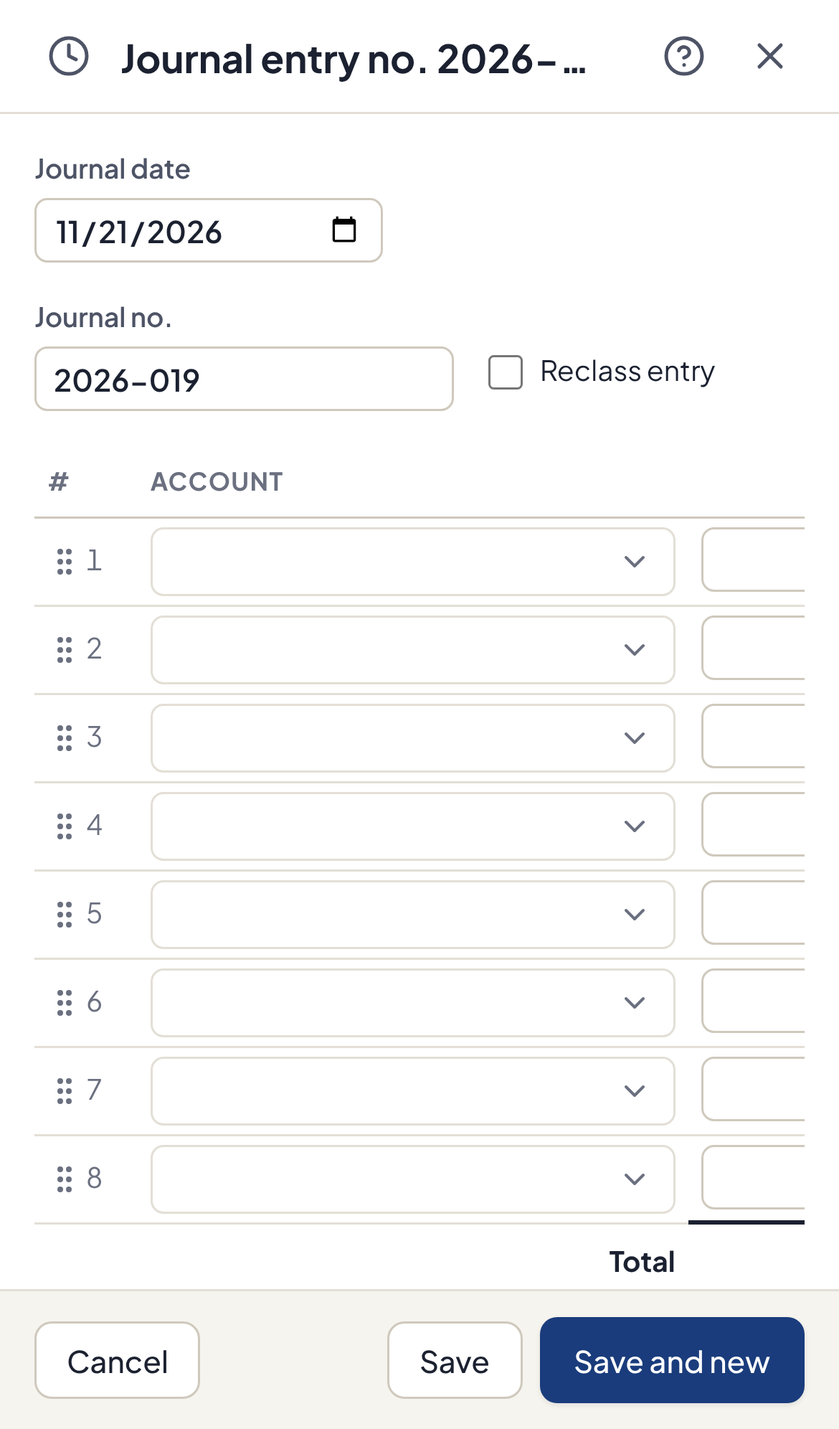
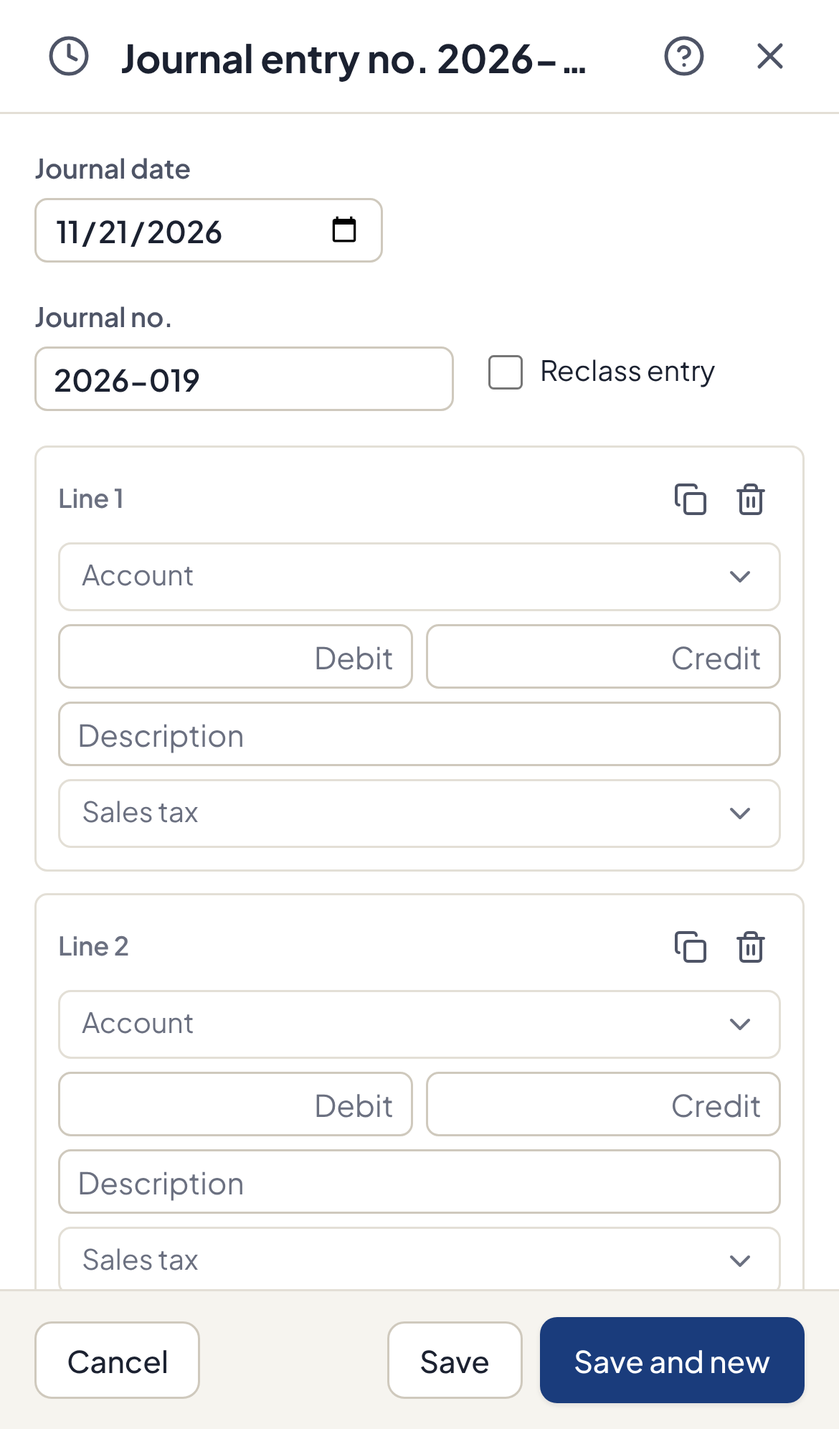
CB2-1 PR A: spec-checker fixes (phone width, chart from the firm template, default tax codes)
- Phone width: journal lines as cards; tables keep their key columns; nothing scrolls sideways.
- A client's chart starts from the firm's template (added by hand: the whole template; every client kept in step),
  each account with its default sales tax code for the client's province; the Chart column shows it.
- Retained earnings: the client's own account before the template's.

Claude-Session: https://claude.ai/code/session_016SXATpLEpnPH42ZvaMcLCJ

Changed region(s): [[0.0308, 0.3112, 0.9538, 0.9026], [0.1538, 0.6225, 0.1846, 0.6536]]

diff --git a/src/app/cb/[client]/reports/[report]/page.tsx b/src/app/cb/[client]/reports/[report]/page.tsx
@@ -36,11 +36,11 @@ export default async function ReportPage({ params, searchParams }: { params: Pro
 
   const tbRow = (t: TbLine, indent = false, bold = false) => (
     <tr key={t.key} className={bold ? "font-semibold" : ""} data-tb-row={t.key}>
-      <td className={indent ? "pl-6" : ""}>{t.number}</td><td>{t.name}</td><td>{(t.line_no ?? "").replace(/\.00$/, "")}</td>
-      <td className="text-right tabular-nums">{link(t.key, t.prelim)}</td><td className="text-right tabular-nums">{link(t.key, t.adjust)}</td>
-      <td className="text-right tabular-nums">{link(t.key, t.reclass)}</td><td className="text-right tabular-nums">{link(t.key, t.final)}</td>
-      <td className="text-right tabular-nums">{link(t.key, t.last, yearBefore(from), yearBefore(to))}</td><td className="text-right tabular-nums">{amt(t.diff)}</td>
-      <td className="text-right tabular-nums">{bold && !t.number && t.key === "total" ? "" : pctChange(t.final, t.last)}</td>
+      <td className={`${indent ? "pl-6" : ""} max-md:hidden`}>{t.number}</td><td>{t.name}</td><td className="max-md:hidden">{(t.line_no ?? "").replace(/\.00$/, "")}</td>
+      <td className="text-right tabular-nums max-md:hidden">{link(t.key, t.prelim)}</td><td className="text-right tabular-nums max-md:hidden">{link(t.key, t.adjust)}</td>
+      <td className="text-right tabular-nums max-md:hidden">{link(t.key, t.reclass)}</td><td className="text-right tabular-nums">{link(t.key, t.final)}</td>
+      <td className="text-right tabular-nums max-md:hidden">{link(t.key, t.last, yearBefore(from), yearBefore(to))}</td><td className="text-right tabular-nums max-md:hidden">{amt(t.diff)}</td>
+      <td className="text-right tabular-nums max-md:hidden">{bold && !t.number && t.key === "total" ? "" : pctChange(t.final, t.last)}</td>
     </tr>
   );
   const sec = (s: StmtSection, total: string, f: string, t: string, pf: string, pt: string) => (
@@ -68,18 +68,18 @@ export default async function ReportPage({ params, searchParams }: { params: Pro
     for (const t of r.tb) { if (t.final > 0) dr += t.final; else cr -= t.final; }
     body = (
       <table className="table" data-report="tb">
-        <thead><tr><th>Number</th><th>Account</th><th className="text-right">Debit</th><th className="text-right">Credit</th></tr></thead>
+        <thead><tr><th className="max-md:hidden">Number</th><th>Account</th><th className="text-right">Debit</th><th className="text-right">Credit</th></tr></thead>
         <tbody>{r.tb.filter((t) => t.final).map((t) => (
-          <tr key={t.key} data-tb-row={t.key}><td>{t.number}</td><td>{t.name}</td>
+          <tr key={t.key} data-tb-row={t.key}><td className="max-md:hidden">{t.number}</td><td>{t.name}</td>
             <td className="text-right tabular-nums">{t.final > 0 ? link(t.key, t.final) : ""}</td><td className="text-right tabular-nums">{t.final < 0 ? link(t.key, -t.final) : ""}</td></tr>))}
-          <tr className="font-bold"><td /><td>Total</td><td className="border-t border-ink text-right tabular-nums">{amt(dr)}</td><td className="border-t border-ink text-right tabular-nums">{amt(cr)}</td></tr></tbody>
+          <tr className="font-bold"><td className="max-md:hidden" /><td>Total</td><td className="border-t border-ink text-right tabular-nums">{amt(dr)}</td><td className="border-t border-ink text-right tabular-nums">{amt(cr)}</td></tr></tbody>
       </table>
     );
   } else if (report === "tbg" && r.groups) {
     body = (
       <table className="table table-compact" data-report="tbg">
-        <thead><tr><th>Number</th><th>Account</th><th>GIFI</th><th className="text-right">Prelim</th><th className="text-right">Adj&apos;s</th><th className="text-right">Reclass</th>
-          <th className="text-right">Final</th><th className="text-right">Prior</th><th className="text-right">$ change</th><th className="text-right">% change</th></tr></thead>
+        <thead><tr><th className="max-md:hidden">Number</th><th>Account</th><th className="max-md:hidden">GIFI</th><th className="text-right max-md:hidden">Prelim</th><th className="text-right max-md:hidden">Adj&apos;s</th><th className="text-right max-md:hidden">Reclass</th>
+          <th className="text-right">Final</th><th className="text-right max-md:hidden">Prior</th><th className="text-right max-md:hidden">$ change</th><th className="text-right max-md:hidden">% change</th></tr></thead>
         <tbody>{r.groups.groups.map((g) => (
           <Fragment key={g.code}>
             <tr key={`h${g.code}`} className="font-bold"><td colSpan={10} className="pt-3">{g.name}</td></tr>
@@ -109,19 +109,19 @@ export default async function ReportPage({ params, searchParams }: { params: Pro
   } else if (report === "gl" && r.ledger) {
     body = (
       <table className="table table-compact" data-report="gl">
-        <thead><tr><th>Date</th><th>Transaction type</th><th>No.</th><th>Description</th><th className="text-right">Amount</th><th className="text-right">Balance</th></tr></thead>
+        <thead><tr><th>Date</th><th className="max-md:hidden">Transaction type</th><th className="max-md:hidden">No.</th><th>Description</th><th className="text-right">Amount</th><th className="text-right max-md:hidden">Balance</th></tr></thead>
         <tbody>{r.ledger.map((a) => (
           <Fragment key={a.key}>
             <tr key={`h${a.key}`} className="font-bold"><td colSpan={6} className="pt-3">{acctLabel(a)}</td></tr>
-            <tr key={`b${a.key}`} className="text-ink-2"><td>{formatDate(from)}</td><td colSpan={3}>Balance at start</td><td /><td className="text-right tabular-nums">{amt(a.before)}</td></tr>
+            <tr key={`b${a.key}`} className="text-ink-2"><td>{formatDate(from)}</td><td colSpan={3}>Balance at start</td><td /><td className="text-right tabular-nums max-md:hidden">{amt(a.before)}</td></tr>
             {a.lines.map((l, i) => {
               const tx = txnOf(b, l);
               const href = tx ? `${tx.href}${tx.href.includes("?") ? "&" : "?"}back=${encodeURIComponent(here)}` : null;
               return (
                 <tr key={`${a.key}${i}`} data-gl-line>
-                  <td className="whitespace-nowrap">{formatDate(l.date)}</td><td>{tx ? <Link href={href!} className="text-navy-700 hover:underline">{tx.type}</Link> : ""}</td>
-                  <td>{tx?.no ?? ""}</td><td className="min-w-[14rem]">{href ? <Link href={href} className="hover:underline">{tx?.text || l.label}</Link> : l.label}</td>
-                  <td className="text-right tabular-nums">{amt(l.cents)}</td><td className="text-right tabular-nums">{amt(l.running)}</td>
+                  <td className="whitespace-nowrap">{formatDate(l.date)}</td><td className="max-md:hidden">{tx ? <Link href={href!} className="text-navy-700 hover:underline">{tx.type}</Link> : ""}</td>
+                  <td className="max-md:hidden">{tx?.no ?? ""}</td><td className="md:min-w-[14rem]">{href ? <Link href={href} className="hover:underline">{tx?.text || l.label}</Link> : l.label}</td>
+                  <td className="text-right tabular-nums">{amt(l.cents)}</td><td className="text-right tabular-nums max-md:hidden">{amt(l.running)}</td>
                 </tr>
               );
             })}
@@ -134,15 +134,15 @@ export default async function ReportPage({ params, searchParams }: { params: Pro
   } else if (report === "journal" && r.journal && r.box) {
     body = (
       <table className="table table-compact" data-report="journal">
-        <thead><tr><th>Date</th><th>Transaction type</th><th>No.</th><th>Account</th><th className="text-right">Debit</th><th className="text-right">Credit</th></tr></thead>
+        <thead><tr><th>Date</th><th className="max-md:hidden">Transaction type</th><th className="max-md:hidden">No.</th><th>Account</th><th className="text-right">Debit</th><th className="text-right">Credit</th></tr></thead>
         <tbody>{r.journal.map((t, i) => {
           const tx = txnOf(b, { kind: t.kind, ref: t.ref, label: t.label });
           const href = tx ? `${tx.href}${tx.href.includes("?") ? "&" : "?"}back=${encodeURIComponent(here)}` : null;
           return (
             <Fragment key={i}>
               <tr key={`h${i}`} className="border-t border-sand-300 font-semibold"><td className="whitespace-nowrap">{formatDate(t.date)}</td>
-                <td>{href ? <Link href={href} className="text-navy-700 hover:underline">{tx!.type}</Link> : ""}</td><td>{tx?.no}</td><td colSpan={3}>{tx?.text || t.label}</td></tr>
-              {t.lines.map((l, k) => <tr key={`${i}-${k}`}><td colSpan={3} /><td>{name(l.key)}</td><td className="text-right tabular-nums">{l.cents > 0 ? amt(l.cents) : ""}</td><td className="text-right tabular-nums">{l.cents < 0 ? amt(-l.cents) : ""}</td></tr>)}
+                <td className="max-md:hidden">{href ? <Link href={href} className="text-navy-700 hover:underline">{tx!.type}</Link> : ""}</td><td className="max-md:hidden">{tx?.no}</td><td colSpan={3}>{tx?.text || t.label}</td></tr>
+              {t.lines.map((l, k) => <tr key={`${i}-${k}`}><td /><td colSpan={2} className="max-md:hidden" /><td>{name(l.key)}</td><td className="text-right tabular-nums">{l.cents > 0 ? amt(l.cents) : ""}</td><td className="text-right tabular-nums">{l.cents < 0 ? amt(-l.cents) : ""}</td></tr>)}
             </Fragment>
           );
         })}
@@ -169,7 +169,7 @@ export default async function ReportPage({ params, searchParams }: { params: Pro
         <a href={exp("xlsx")} className="btn-secondary btn-compact" data-export="xlsx"><FileSpreadsheet className="h-4 w-4" />Excel</a>
         <a href={exp("pdf")} target="_blank" rel="noreferrer" className="btn-secondary btn-compact" data-export="pdf"><FileText className="h-4 w-4" />PDF</a>
       </form>
-      <div className="card overflow-x-auto p-4">
+      <div className="card overflow-x-auto p-4 max-md:px-2">
         <div className="mb-3 text-center"><p className="text-[13px] text-ink-3">{b.client.name}</p><h1 className="text-[18px] font-bold">{REPORTS[report]}{account ? `: ${account.split(",").map(name).join(", ")}` : ""}</h1><p className="text-[13px] text-ink-3">{period}</p></div>
         {body}
       </div>

diff --git a/src/lib/books/server.ts b/src/lib/books/server.ts
@@ -5,6 +5,7 @@ import { loadFile, loadReference, type CbEntry } from "@/lib/closebook/server";
 import { loadReportData } from "@/lib/closebook/report-data";
 import type { LineInfo, RepAccount } from "@/lib/closebook/reports";
 import { buildBooks, identOf, type AcctType, type Books, type YearIn } from "./ledger";
+import { defaultTaxCode } from "@/lib/closebook/sales-tax";
 
 export type BooksClient = { id: string; name: string; province: string; studio_client_id: string | null };
 export type ChartAccount = { id: string; ident: string; number: string; name: string; account_type: AcctType; line_no: string | null; tax_code: string | null; active: boolean;
@@ -54,7 +55,11 @@ export async function loadBooks(supabase: SupabaseClient, clientId: string): Pro
   };
   const years: YearIn[] = [];
   const entries: BooksEntry[] = [];
-  const syncRows: { number: string; name: string; type: AcctType; line_no: string | null }[] = [];
+  // CB2-1 Part 1.6: the chart starts from the firm's template, then the year files (the latest year's name wins).
+  const { data: tpl } = await supabase.from("cb_chart_accounts").select("number, name, account_type, line_no, tax_default").order("sort_order");
+  const tplTax = new Map(((tpl ?? []) as { number: string; tax_default: string | null }[]).map((t) => [t.number, defaultTaxCode(t.tax_default ?? "None", (client as BooksClient).province, t.number)]));
+  const syncRows: { number: string; name: string; type: AcctType; line_no: string | null; tax?: string | null }[] =
+    ((tpl ?? []) as { number: string; name: string; account_type: AcctType; line_no: string | null }[]).map((t) => ({ number: t.number, name: t.name, type: t.account_type, line_no: t.line_no, tax: tplTax.get(t.number) ?? null }));
   for (const f of files) {
     const full = await loadFile(supabase, f.id, { books: true });
     if (!full) continue;
@@ -65,7 +70,7 @@ export async function loadBooks(supabase: SupabaseClient, clientId: string): Pro
     for (const a of rd.accounts as RepAccount[]) {
       if (!used.has(a.key) && !a.lastCents) continue;
       const t = (lineType.get(a.line_no ?? "") as AcctType | undefined) ?? typeByNumber(a.number, a.key);
-      syncRows.push({ number: a.number, name: a.name, type: TYPES.includes(t) ? t : "Asset", line_no: a.line_no });
+      syncRows.push({ number: a.number, name: a.name, type: TYPES.includes(t) ? t : "Asset", line_no: a.line_no, tax: tplTax.get(a.number) ?? null });
     }
     for (const e of full.entries) {
       entries.push({ ...e, fileId: f.id, yearEnd: f.year_end, yearStart: f.year_start, locked: f.phase === "locked",
@@ -76,10 +81,11 @@ export async function loadBooks(supabase: SupabaseClient, clientId: string): Pro
   let chart = await loadChart(supabase, clientId);
   const have = new Map(chart.map((a) => [a.ident, a]));
   const latest = new Map<string, (typeof syncRows)[number]>();
-  for (const r of syncRows) latest.set(identOf(r), r);
+  for (const r of syncRows) latest.set(identOf(r), { ...r, tax: r.tax ?? latest.get(identOf(r))?.tax ?? null });
   const needed = [...latest.values()].filter((r) => {
     const a = have.get(identOf(r));
-    return !a ? !chart.some((x) => x.merged_into && x.ident === identOf(r)) : a.source === "books" && (a.name !== r.name || a.account_type !== r.type || (a.line_no ?? null) !== (r.line_no ?? null));
+    return !a ? !chart.some((x) => x.merged_into && x.ident === identOf(r))
+      : (a.source === "books" && (a.name !== r.name || a.account_type !== r.type || (a.line_no ?? null) !== (r.line_no ?? null))) || (!a.tax_code && !!r.tax);
   });
   if (needed.length) {
     await supabase.rpc("cb_books_sync_accounts", { p_client: clientId, p_rows: needed });
@@ -97,7 +103,10 @@ export async function loadBooks(supabase: SupabaseClient, clientId: string): Pro
   }
   const typeOf = (ident: string): AcctType | undefined => byIdent.get(ident)?.account_type ?? (ident.startsWith("name:") ? undefined : typeByNumber(ident));
   // Retained earnings: the account on GIFI line 3600 (31000 first).
-  const reAcct = live.filter((a) => (a.line_no ?? "").startsWith("3600")).sort((a, b) => Number(b.number === "31000") - Number(a.number === "31000") || a.number.localeCompare(b.number))[0];
+  // The client's own (an account its year files use) before the template's.
+  const used = new Set(years.flatMap((y) => y.accounts.map((a) => identOf(a))));
+  const reAcct = live.filter((a) => (a.line_no ?? "").startsWith("3600"))
+    .sort((a, b) => Number(used.has(b.ident)) - Number(used.has(a.ident)) || Number(b.number === "31000") - Number(a.number === "31000") || a.number.localeCompare(b.number))[0];
   const re = reAcct?.ident ?? "31000";
   const remap = (y: YearIn): YearIn => mergedTo.size ? {
     ...y, accounts: y.accounts.map((a) => { const t = mergedTo.get(identOf(a)); const c = t ? byIdent.get(t) : undefined; return c ? { ...a, number: c.number, name: c.name } : a; }),

diff --git a/src/app/cb/[client]/journal/window.tsx b/src/app/cb/[client]/journal/window.tsx
@@ -125,7 +125,7 @@ export function JournalWindow({ clientId, entry, nextNo, accounts, codes, years,
           {warnings.length > 0 && <ul className="mt-3 grid gap-1 rounded-md bg-warning-soft px-3 py-2 text-[12.5px] text-warning" data-je-warnings>{warnings.map((w) => <li key={w}>{w}</li>)}</ul>}
           {entry.schedule && <p className="mt-3 text-[12.5px] text-ink-3">Made by a schedule. It edits here as an ordinary entry.</p>}
           {/* Lines: #, Account, Debits, Credits, Description, Sales tax. */}
-          <div className="mt-4 overflow-x-auto">
+          <div className="mt-4 hidden overflow-x-auto md:block">
             <table className="w-full min-w-[56rem] border-collapse text-[13px]" data-je-lines>
               <thead><tr className="border-b border-sand-300 text-left text-[11.5px] font-semibold uppercase tracking-[.04em] text-ink-3">
                 <th className="w-12 px-1.5 py-2">#</th><th className="px-1.5 py-2">Account</th><th className="w-32 px-1.5 py-2 text-right">Debits</th><th className="w-32 px-1.5 py-2 text-right">Credits</th>
@@ -153,6 +153,26 @@ export function JournalWindow({ clientId, entry, nextNo, accounts, codes, years,
                   <td className="border-t-2 border-ink px-1.5 py-2 text-right tabular-nums">{bracketAmount(plan.cr)}</td><td colSpan={3} /></tr></tbody>
             </table>
           </div>
+          {/* Phone width: each line as a card (same fields), so nothing scrolls sideways. */}
+          <ol className="mt-4 grid gap-2.5 md:hidden" data-je-cards>{rows.map((r, i) => (
+            <li key={r.key} className="rounded-md border border-sand-200 p-2.5">
+              <div className="mb-1.5 flex items-center justify-between text-[12px] font-semibold text-ink-3"><span>Line {i + 1}</span>{!ro && <span>
+                <button type="button" aria-label={`Copy line ${i + 1}`} onClick={() => setRows((rs) => [...rs.slice(0, i + 1), { ...rs[i], key: ++seq }, ...rs.slice(i + 1)])} className={iconBtn}><Copy className="h-4 w-4" /></button>
+                <button type="button" aria-label={`Delete line ${i + 1}`} onClick={() => setRows((rs) => pad(rs.filter((_, k) => k !== i), 2))} className={iconBtn}><Trash2 className="h-4 w-4" /></button></span>}</div>
+              <div className="grid gap-1.5">
+                {ro ? <span>{acct.get(r.account)?.label}</span> : <Picker compact ariaLabel={`Line ${i + 1} account (phone)`} value={r.account} onChange={(v) => pickAccount(i, v)} options={accounts} placeholder="Account" />}
+                <div className="grid grid-cols-2 gap-1.5">
+                  <input value={r.dr} onChange={(e) => set(i, { dr: e.target.value, ...(e.target.value ? { cr: "" } : {}) })} onBlur={(e) => set(i, { dr: tidyAmount(e.target.value) })} disabled={ro} inputMode="decimal" placeholder="Debit" aria-label={`Line ${i + 1} debit (phone)`} className="input input-compact w-full text-right tabular-nums" />
+                  <input value={r.cr} onChange={(e) => set(i, { cr: e.target.value, ...(e.target.value ? { dr: "" } : {}) })} onBlur={(e) => set(i, { cr: tidyAmount(e.target.value) })} disabled={ro} inputMode="decimal" placeholder="Credit" aria-label={`Line ${i + 1} credit (phone)`} className="input input-compact w-full text-right tabular-nums" />
+                </div>
+                <input value={r.memo} onChange={(e) => set(i, { memo: e.target.value })} disabled={ro} maxLength={200} placeholder="Description" aria-label={`Line ${i + 1} description (phone)`} className="input input-compact w-full" />
+                {ro ? <span className="text-ink-2">{code.get(r.tax)?.name}</span> : <Picker compact ariaLabel={`Line ${i + 1} sales tax (phone)`} value={r.tax} onChange={(v) => set(i, { tax: v })} options={taxOpts} allowEmpty emptyLabel="No sales tax" placeholder="Sales tax" />}
+              </div>
+            </li>))}
+            {plan.gst !== 0 && <li className="flex justify-between px-1 text-[13px] text-ink-2"><span>21500 GST/HST payable (sales tax)</span><span className="tabular-nums">{bracketAmount(plan.gst)}</span></li>}
+            {plan.pst !== 0 && <li className="flex justify-between px-1 text-[13px] text-ink-2"><span>21550 PST payable (sales tax)</span><span className="tabular-nums">{bracketAmount(plan.pst)}</span></li>}
+            <li className="flex justify-between border-t-2 border-ink px-1 pt-1.5 text-[13px] font-bold"><span>Total</span><span className="tabular-nums">Debits {bracketAmount(plan.dr)} · Credits {bracketAmount(plan.cr)}</span></li>
+          </ol>
           {!ro && <div className="mt-2 flex gap-2">
             <button type="button" className="btn-secondary btn-compact" onClick={() => setRows((rs) => [...rs, ...Array.from({ length: 8 }, blank)])} data-je-add-lines>Add lines</button>
             <button type="button" className="btn-secondary btn-compact" onClick={() => setRows(pad([]))} data-je-clear-lines>Clear all lines</button></div>}

diff --git a/src/app/cb/[client]/chart/view.tsx b/src/app/cb/[client]/chart/view.tsx
@@ -108,8 +108,8 @@ export function ChartView({ clientId, rows, lines, taxes, canEdit, asOf, from, p
     return rows.filter((r) => (inactive || r.active) && (!t || `${r.number} ${r.name} ${r.type} ${r.line_no ?? ""} ${r.lineName}`.toLowerCase().includes(t)))
       .sort((a, b) => { const x = key(a), y = key(b); return (typeof x === "number" && typeof y === "number" ? x - y : String(x).localeCompare(String(y), "en", { numeric: true })) * sort.dir; });
   }, [rows, q, sort, inactive, taxName]);
-  const head = (col: Col, label: string, right = false) => (
-    <th className={right ? "text-right" : ""} aria-sort={sort.col === col ? (sort.dir === 1 ? "ascending" : "descending") : "none"}>
+  const head = (col: Col, label: string, right = false, wide = false) => (
+    <th className={`${right ? "text-right" : ""} ${wide ? "max-md:hidden" : ""}`} aria-sort={sort.col === col ? (sort.dir === 1 ? "ascending" : "descending") : "none"}>
       <button type="button" onClick={() => setSort({ col, dir: sort.col === col ? (sort.dir === 1 ? -1 : 1) : 1 })} className="inline-flex items-center gap-1 font-semibold">
         {label}{sort.col === col && (sort.dir === 1 ? <ArrowUp className="h-3 w-3" /> : <ArrowDown className="h-3 w-3" />)}</button></th>
   );
@@ -129,14 +129,14 @@ export function ChartView({ clientId, rows, lines, taxes, canEdit, asOf, from, p
       </div>
       <div className="card overflow-x-auto p-0">
         <table className="table" data-chart-table>
-          <thead><tr>{head("number", "Number")}{head("name", "Name")}{head("type", "Type")}{head("gifi", "GIFI line")}{head("tax", "Default tax code")}{head("balance", "Balance", true)}<th className="w-10"><span className="sr-only">Actions</span></th></tr></thead>
+          <thead><tr>{head("number", "Number")}{head("name", "Name")}{head("type", "Type", false, true)}{head("gifi", "GIFI line", false, true)}{head("tax", "Default tax code", false, true)}{head("balance", "Balance", true)}<th className="w-10"><span className="sr-only">Actions</span></th></tr></thead>
           <tbody>{shown.map((r) => (
             <tr key={r.id} className={r.active ? "" : "text-ink-3"} data-chart-row={r.ident}>
               <td className="tabular-nums">{r.number}</td>
-              <td className="min-w-[12rem]"><Link href={run(r)} className="hover:underline">{r.name}</Link>{!r.active && <span className="ml-1.5 text-[11.5px]">(inactive)</span>}</td>
-              <td>{r.type}</td>
-              <td className="min-w-[10rem]">{r.line_no ? <span title={r.lineName}>{r.line_no.replace(/\.00$/, "")} {r.lineName}</span> : <span className="text-warning">Unmatched</span>}</td>
-              <td>{r.tax ? taxName.get(r.tax) ?? r.tax : ""}</td>
+              <td className="md:min-w-[12rem]"><Link href={run(r)} className="hover:underline">{r.name}</Link>{!r.active && <span className="ml-1.5 text-[11.5px]">(inactive)</span>}</td>
+              <td className="max-md:hidden">{r.type}</td>
+              <td className="min-w-[10rem] max-md:hidden">{r.line_no ? <span title={r.lineName}>{r.line_no.replace(/\.00$/, "")} {r.lineName}</span> : <span className="text-warning">Unmatched</span>}</td>
+              <td className="max-md:hidden">{r.tax ? taxName.get(r.tax) ?? r.tax : ""}</td>
               <td className="text-right tabular-nums"><Link href={run(r)} className="hover:underline">{bracketAmount(r.balance)}</Link></td>
               <td className="text-right"><RowMenu clientId={clientId} row={r} runHref={run(r)} canEdit={canEdit} onEdit={() => setEdit(r)} onHistory={() => router.push(`${base}?history=${r.id}`)} /></td>
             </tr>

diff --git a/src/app/cb/[client]/settings/page.tsx b/src/app/cb/[client]/settings/page.tsx
@@ -22,9 +22,9 @@ export default async function SettingsPage({ params, searchParams }: { params: P
     body = <>
       <form method="get" className="flex gap-2"><input type="hidden" name="tab" value="chart" /><input name="q" defaultValue={sp.q ?? ""} placeholder="Filter by number or name" className="input input-compact w-full max-w-xs" /></form>
       <div className="card overflow-x-auto p-0"><table className="table table-compact" data-settings-chart>
-        <thead><tr><th>Number</th><th>Name</th><th>Type</th><th>GIFI line</th><th>Default tax code</th></tr></thead>
-        <tbody>{rows.map((r) => <tr key={r.number}><td className="tabular-nums">{r.number}</td><td>{r.name}</td><td>{r.account_type}</td>
-          <td>{r.line_no ? `${r.line_no.replace(/\.00$/, "")} ${b.lineName.get(r.line_no) ?? ""}` : "Unmatched"}</td><td>{r.tax_default ?? ""}</td></tr>)}</tbody></table></div>
+        <thead><tr><th>Number</th><th>Name</th><th className="max-md:hidden">Type</th><th className="max-md:hidden">GIFI line</th><th className="max-md:hidden">Default tax code</th></tr></thead>
+        <tbody>{rows.map((r) => <tr key={r.number}><td className="tabular-nums">{r.number}</td><td>{r.name}</td><td className="max-md:hidden">{r.account_type}</td>
+          <td className="max-md:hidden">{r.line_no ? `${r.line_no.replace(/\.00$/, "")} ${b.lineName.get(r.line_no) ?? ""}` : "Unmatched"}</td><td className="max-md:hidden">{r.tax_default ?? ""}</td></tr>)}</tbody></table></div>
       <p className="text-[12.5px] text-ink-3">A new client&rsquo;s chart starts from this template. {rows.length} accounts.</p>
     </>;
   } else {
@@ -36,9 +36,9 @@ export default async function SettingsPage({ params, searchParams }: { params: P
     for (const p of (parts ?? []) as { code: string; name: string; rate: number; recoverable: boolean; effective_from: string }[])
       byCode.set(p.code, [...(byCode.get(p.code) ?? []), { name: p.name, rate: Number(p.rate), recoverable: p.recoverable, from: p.effective_from }]);
     body = <div className="card overflow-x-auto p-0"><table className="table table-compact" data-settings-tax>
-      <thead><tr><th>Code</th><th>Name</th><th>Provinces</th><th>Parts (rate, claimable, in force from)</th></tr></thead>
-      <tbody>{((codes ?? []) as { code: string; name: string; provinces: string[] | null }[]).map((c) => <tr key={c.code}><td className="font-semibold">{c.code}</td><td>{c.name}</td>
-        <td>{c.provinces?.join(", ") ?? "All"}</td>
+      <thead><tr><th className="max-md:hidden">Code</th><th>Name</th><th className="max-md:hidden">Provinces</th><th>Parts (rate, claimable, in force from)</th></tr></thead>
+      <tbody>{((codes ?? []) as { code: string; name: string; provinces: string[] | null }[]).map((c) => <tr key={c.code}><td className="font-semibold max-md:hidden">{c.code}</td><td>{c.name}</td>
+        <td className="max-md:hidden">{c.provinces?.join(", ") ?? "All"}</td>
         <td>{(byCode.get(c.code) ?? []).map((p, i) => <div key={i}>{p.name}: {(p.rate * 100).toFixed(3).replace(/\.?0+$/, "")}%, {p.recoverable ? "claimable" : "not claimable"}, from {p.from}</div>)}
           {!byCode.has(c.code) && <span className="text-ink-3">No tax</span>}</td></tr>)}</tbody></table></div>;
   }

diff --git a/src/app/cb/[client]/search/page.tsx b/src/app/cb/[client]/search/page.tsx
@@ -50,13 +50,13 @@ export default async function SearchPage({ params, searchParams }: { params: Pro
         <button type="submit" className="btn">Search</button></form>
       {q && <p className="text-[13px] text-ink-3">{hits.size} result{hits.size === 1 ? "" : "s"}{hits.size > 200 ? " (the first 200)" : ""}</p>}
       {list.length > 0 && <div className="card overflow-x-auto p-0"><table className="table" data-search-results>
-        <thead><tr><th>Date</th><th>Type</th><th>No.</th><th>Description</th><th>Accounts</th><th className="text-right">Amount</th></tr></thead>
+        <thead><tr><th>Date</th><th className="max-md:hidden">Type</th><th className="max-md:hidden">No.</th><th>Description</th><th className="max-md:hidden">Accounts</th><th className="text-right">Amount</th></tr></thead>
         <tbody>{list.map((h) => (
           <tr key={h.ref} className="hover:bg-sand-50" data-search-hit>
             <td className="whitespace-nowrap"><Link href={`${h.href}?back=${encodeURIComponent(`/cb/${client}/search?q=${encodeURIComponent(q)}`)}`} className="text-navy-700 hover:underline">{formatDate(h.date)}</Link></td>
-            <td>{h.type}</td><td>{h.no}</td>
-            <td className="min-w-[14rem]"><Link href={`${h.href}?back=${encodeURIComponent(`/cb/${client}/search?q=${encodeURIComponent(q)}`)}`} className="hover:underline">{h.text}</Link></td>
-            <td className="text-[12.5px] text-ink-2">{[...h.accounts].join(", ")}</td><td className="text-right tabular-nums">{bracketAmount(h.amount)}</td>
+            <td className="max-md:hidden">{h.type}</td><td className="max-md:hidden">{h.no}</td>
+            <td className="md:min-w-[14rem]"><Link href={`${h.href}?back=${encodeURIComponent(`/cb/${client}/search?q=${encodeURIComponent(q)}`)}`} className="hover:underline">{h.text}</Link></td>
+            <td className="text-[12.5px] text-ink-2 max-md:hidden">{[...h.accounts].join(", ")}</td><td className="text-right tabular-nums">{bracketAmount(h.amount)}</td>
           </tr>))}</tbody></table></div>}
     </div>
   );

diff --git a/src/app/cb/[client]/journal/page.tsx b/src/app/cb/[client]/journal/page.tsx
@@ -39,15 +39,15 @@ export default async function JournalList({ params, searchParams }: { params: Pr
       </form>
       <div className="card overflow-x-auto p-0">
         <table className="table" data-je-list>
-          <thead><tr><th>No.</th><th>Date</th><th>Memo</th><th className="text-right">Total</th><th className="text-center">Reclass</th><th>Created from</th></tr></thead>
+          <thead><tr><th>No.</th><th>Date</th><th>Memo</th><th className="text-right">Total</th><th className="text-center max-md:hidden">Reclass</th><th className="max-md:hidden">Created from</th></tr></thead>
           <tbody>{rows.map((r) => (
             <tr key={r.id} className="cursor-pointer hover:bg-sand-50" data-je-row={r.no || r.id}>
               <td className="whitespace-nowrap"><Link href={r.href} className="font-semibold text-navy-700 hover:underline">{r.no || "–"}</Link></td>
               <td className="whitespace-nowrap"><Link href={r.href} className="block">{formatDate(r.date)}</Link></td>
-              <td className="min-w-[16rem]"><Link href={r.href} className="block">{r.memo}</Link></td>
+              <td className="md:min-w-[16rem]"><Link href={r.href} className="block">{r.memo}</Link></td>
               <td className="text-right tabular-nums"><Link href={r.href} className="block">{bracketAmount(r.total)}</Link></td>
-              <td className="text-center">{r.reclass && <Check className="mx-auto h-4 w-4 text-navy-700" aria-label="Reclass entry" />}</td>
-              <td><Link href={r.href} className="block">{r.from}</Link></td>
+              <td className="text-center max-md:hidden">{r.reclass && <Check className="mx-auto h-4 w-4 text-navy-700" aria-label="Reclass entry" />}</td>
+              <td className="max-md:hidden"><Link href={r.href} className="block">{r.from}</Link></td>
             </tr>
           ))}
             {!rows.length && <tr><td colSpan={6} className="text-ink-3">No journal entry in this range.</td></tr>}</tbody>

diff --git a/src/app/globals.css b/src/app/globals.css
@@ -223,3 +223,9 @@ body:has([data-ui1]) [data-bar] .bg-white :focus-visible { outline-color: #01216
 /* Amount columns: a hidden bracket-width space after positive amounts lines decimals up with bracketed
    negatives (D9). On screen only; it is not text, so a copy never picks up a ")". */
 .amt-pad::after { content: ")"; visibility: hidden; }
+/* CB2-1: Closebook at phone width. Tables keep their key columns (the others hide) and tighten, so nothing scrolls sideways. */
+@media (max-width: 767px) {
+  .cb-books .table th, .cb-books .table td { padding-left: 0.4rem; padding-right: 0.4rem; font-size: 12.5px; }
+  .cb-books .table td { overflow-wrap: anywhere; }
+  .cb-books .card.overflow-x-auto { padding-left: 0; padding-right: 0; }
+}

diff --git a/src/app/cb/shell.tsx b/src/app/cb/shell.tsx
@@ -122,7 +122,7 @@ export function CbShell({ client, clients, canEdit, children }: { client: ShellC
             </div>
           </div>
         )}
-        <main id="main" className="min-w-0 flex-1 px-4 py-5 md:px-6">{children}</main>
+        <main id="main" className="cb-books min-w-0 flex-1 px-4 py-5 md:px-6">{children}</main>
       </div>
     </div>
   );

diff --git a/docs/cb2/for-later.md b/docs/cb2/for-later.md
@@ -63,3 +63,16 @@ rules 15 and 16). Nothing here is built. Hashim decides each one when its piece 
 33. Changing an entry's journal number alone is recorded on the entry, but its History row does not name the change.
 34. Attachments on an entry are listed by name (as in today's window); opening them from the window comes later.
 35. scripts/checks/drift-check.sql (manual audit) does not list the CB2-1 tables and functions yet.
+
+## From the one spec-checker run on PR #117 (rule 16), outside the piece or for Hashim
+36. Tax codes and the chart template carry a firm ID, but their keys are global (code, number): a second firm cannot hold
+    its own HST_ON or 21500, and sees no codes. Needs keys per firm and a starting set per firm (Hashim to decide).
+37. Account numbers written in the new code (rule 12): 21500 and 21550 (sales tax lines, Overview tile), 31000 (retained
+    earnings fallback). To come from markers on the firm's chart template, as item 21 proposes for 21510 (Hashim to decide).
+38. The suggested journal number does not follow the date into another year.
+39. Saving a schedule entry from Books drops its lines' schedule tags.
+40. The Back link on reports and the bank transaction page follows any address given; limit it to /cb.
+41. The opening entry's "not cleared" warning fires on any line to an Opening Balance Equity account.
+42. Report subtotals, totals and $ change are not links (QBO links totals).
+43. A worked-out entry's window title reads "Journal entry: Opening balances", not a number (it has none until saved).
+44. Chart search box: the icon overlaps the placeholder.
